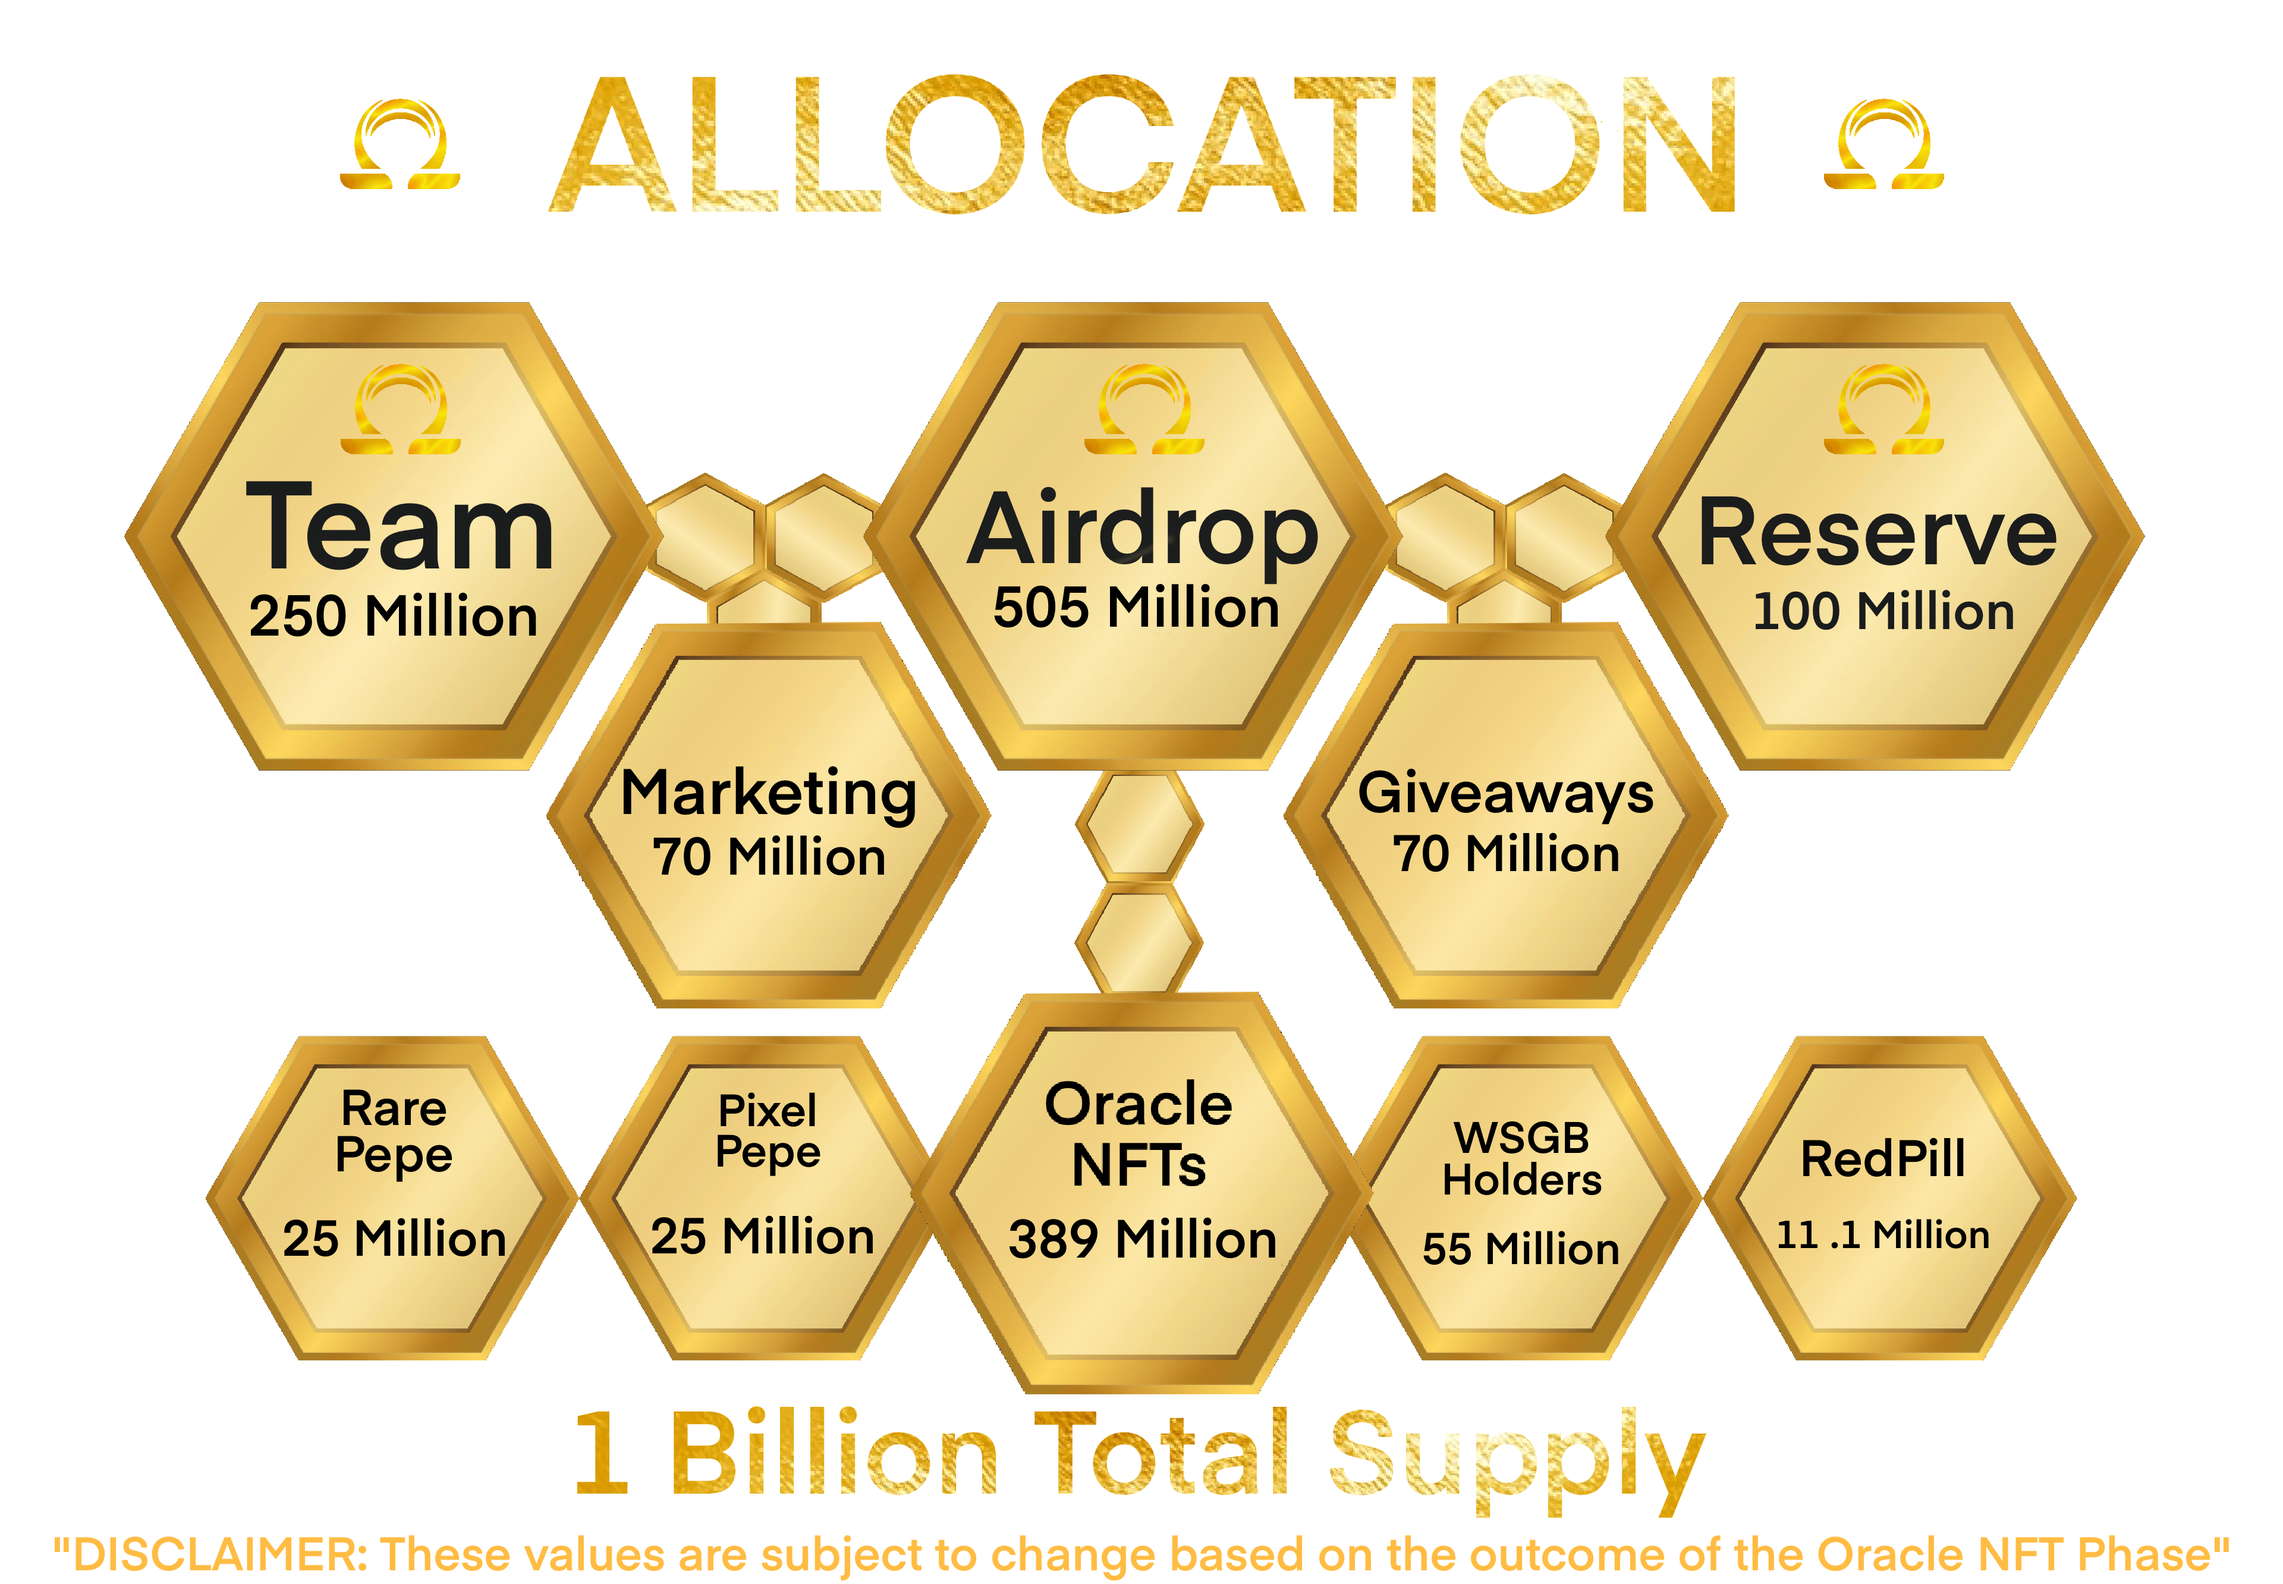
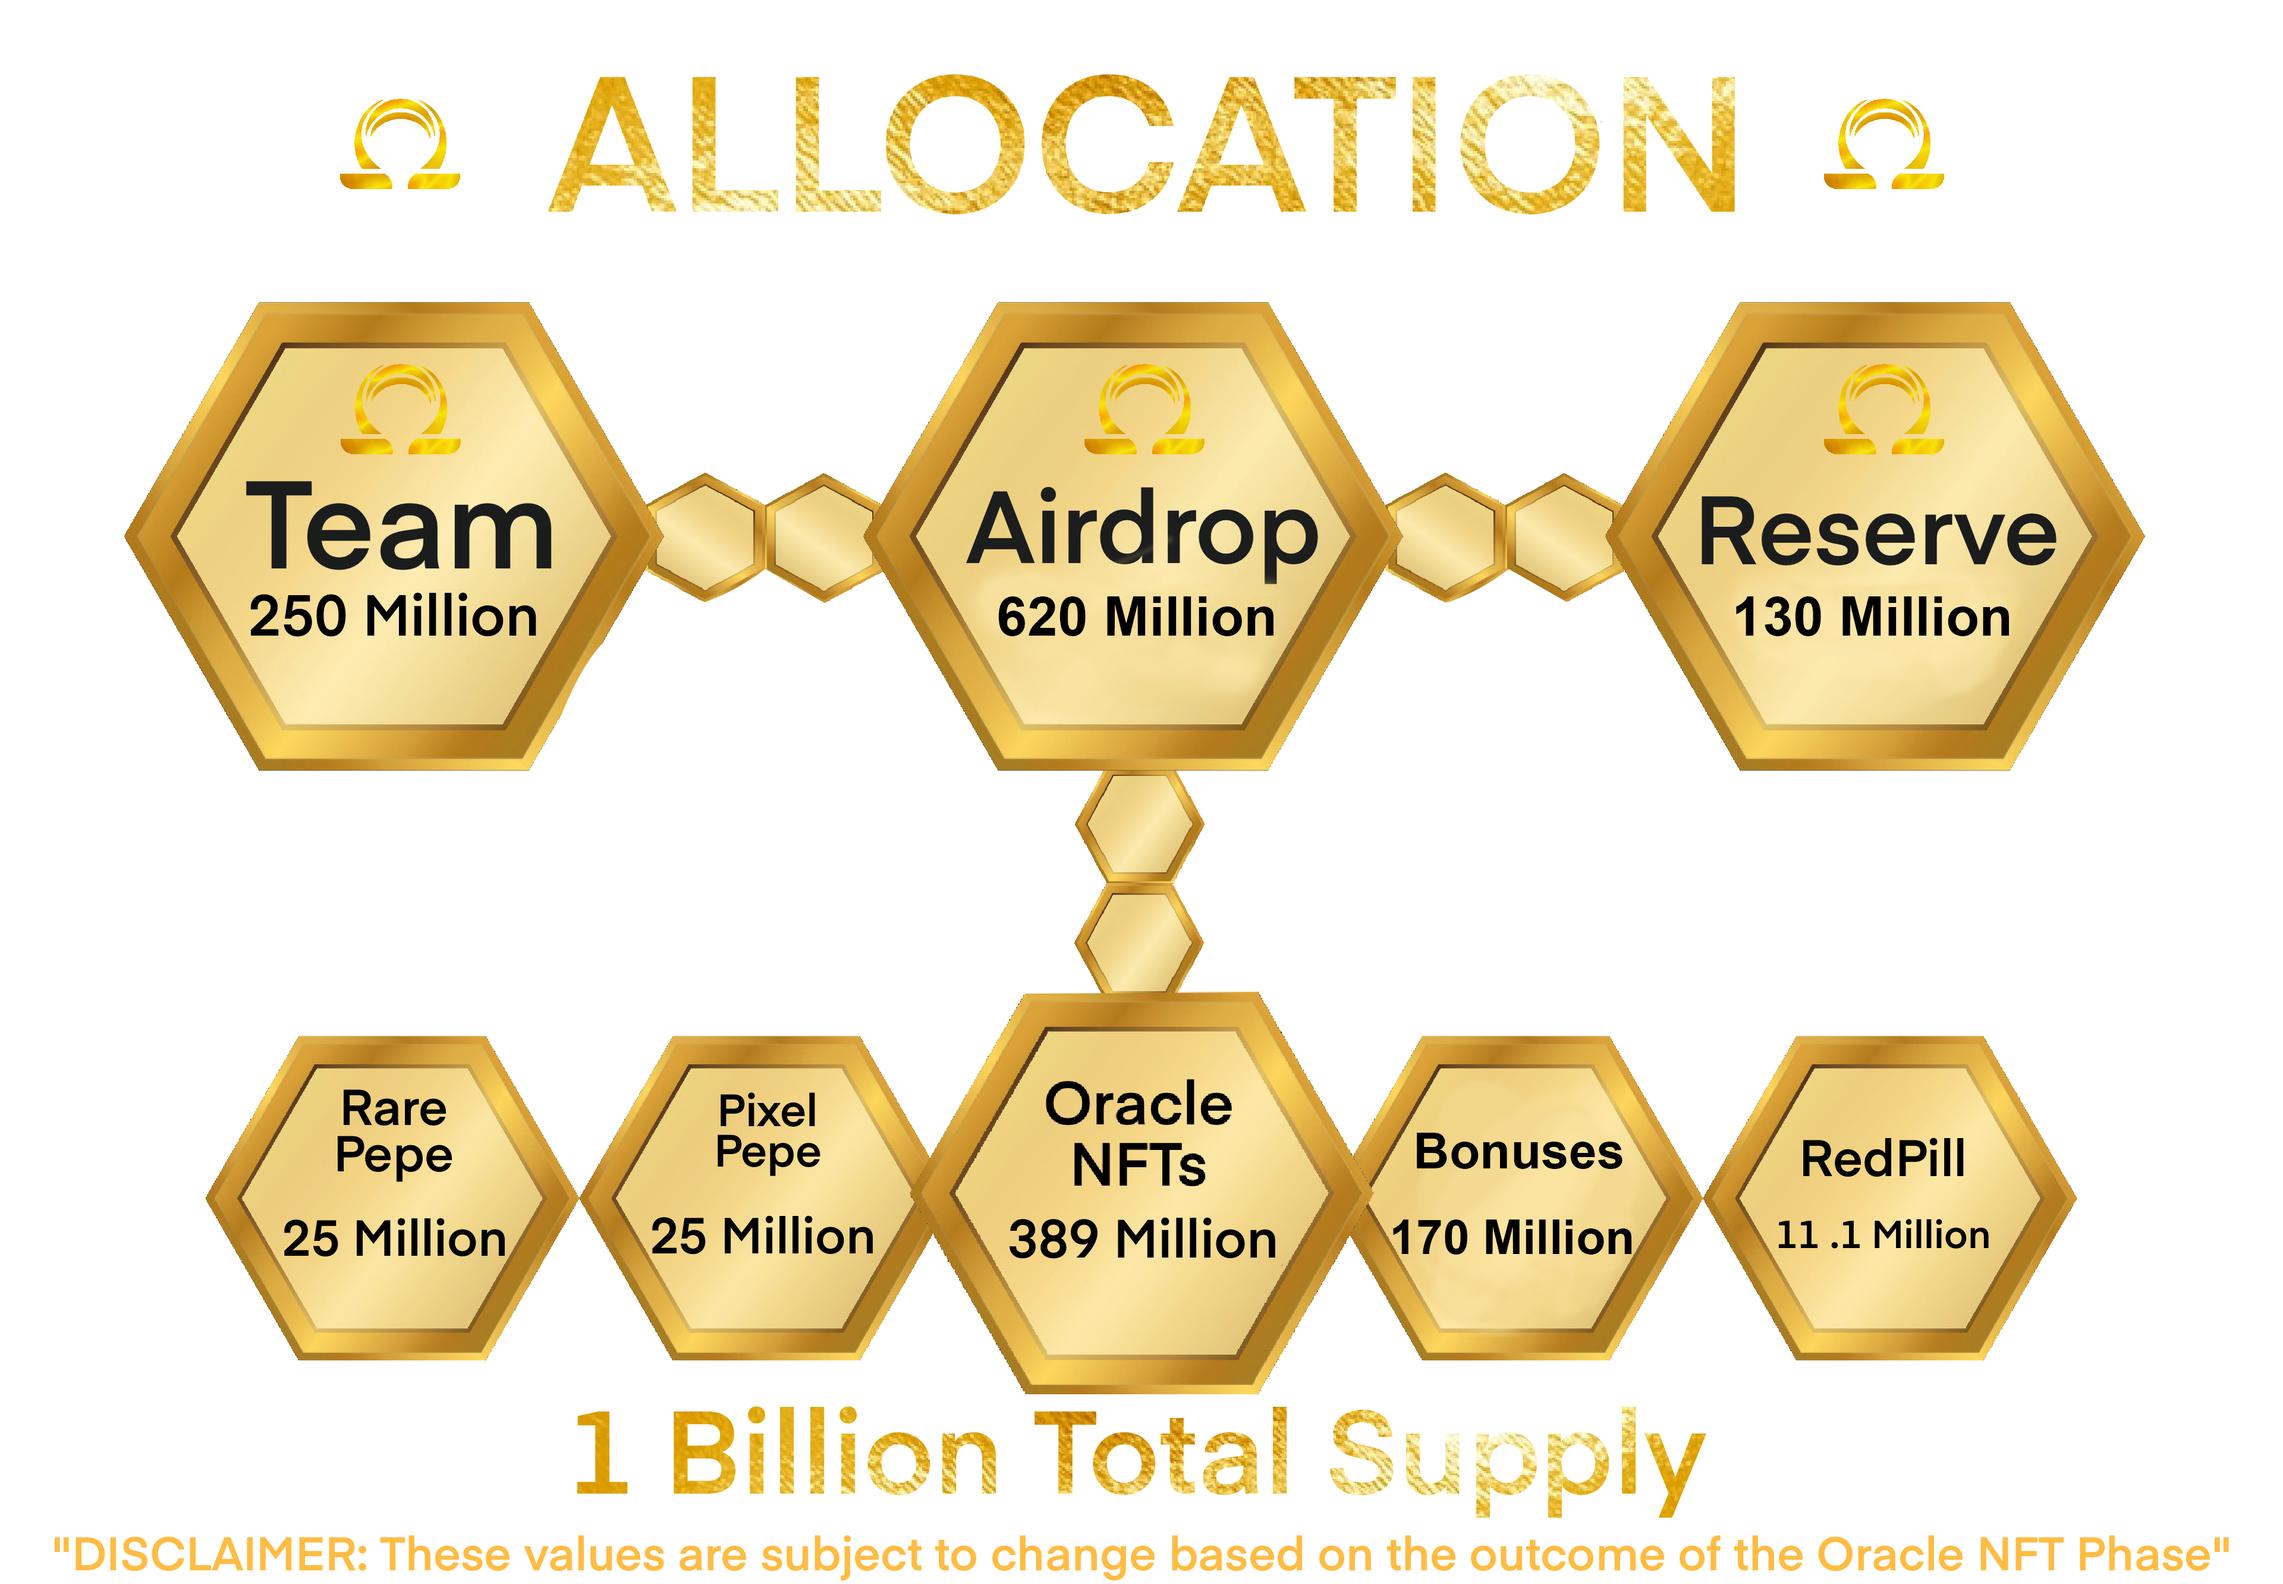
Final Dex updates before launch!

diff --git a/src/template/HomeDemo3/index.jsx b/src/template/HomeDemo3/index.jsx
@@ -75,10 +75,12 @@ let HomeDemo3 = () => {
         <SecVerticalSocial data={VerticalSocial} />
         {/* <SecFAQ_Timeline FQAInfo={FQAInfo} DocElementTitle={DocElementTitle} /> */}
         {/* <SecHowItWorks data={HowItWorksInfo} imgPhone={HomeDemo3ImgPhone} /> */}
-        <SecTrust data={SingleCoolFact} />
         {/* <SecAboutUsClient img={HomeDemo3About1} /> */}
         {/* <Multipliers /> */}
         {/* <Benefits /> */}
+        <br />
+        <br />
+        <br />
         <SecDemoVideo img={HomeDemo3VideoBg4} />
         <SecAboutUs img={HomeDemo3Solution} />
         <div className="clearfix" />
@@ -87,6 +89,7 @@ let HomeDemo3 = () => {
         <SecSubscribe data={SocialListIco} />
         <SecDistribution img={HomeDemo3Allocation} data={TokenText} />
         <SecOurRoadmap data={timelineInfo} img={HomeDemo3BgRoadmap} />
+        <SecTrust data={SingleCoolFact} />
         <SecTeam data={TeamMember} />
         <Disclaimer />
 

diff --git a/src/template/HomeDemo3/SecTrust/index.jsx b/src/template/HomeDemo3/SecTrust/index.jsx
@@ -9,7 +9,7 @@ const SecTrust = ({ data }) => {
 
       <SectionHeading
         title='Meet The Oracles!'
-        text='The Oracles are messengers from beyond that encourage humanity to utilize decentralized technologies to uplift their civilization. The Oracles believe Blockchains, Digital Assets and Decentralized exchanges can liberate humanity from the corrupt corporations and instutions that control the world.'
+        text='The Oracles are messengers from beyond that encourage humanity to utilize decentralized technologies to uplift their civilization. The Oracles believe Blockchains, Digital Assets and Decentralized exchanges can liberate humanity from the corrupt corporations and instutions that control the world. The Oracles are the decentralized keepers of OracleSwap!'
       />
 
       <div className="container">

diff --git a/src/data/data-containers/data-HomeDemo3.js b/src/data/data-containers/data-HomeDemo3.js
@@ -394,7 +394,7 @@ export const TokenText = [
         img:HomeDemo3TokenIcon1
     },
     {
-        text:'505 Million To Airdrop',
+        text:'620 Million Airdroped to Songbird Network',
         img:HomeDemo3TokenIcon1
     },
     {
@@ -402,7 +402,7 @@ export const TokenText = [
         img:HomeDemo3TokenIcon1
     },
     {
-        text:'245 Million To Reserve/Marketing - The Reserve may be burned, used for liquidity, or provided to other exchanges...',
+        text:'130 Million To Reserve/Marketing - The Reserve may be burned, used for liquidity, or provided to other exchanges...',
         img:HomeDemo3TokenIcon1
     },
 ]
